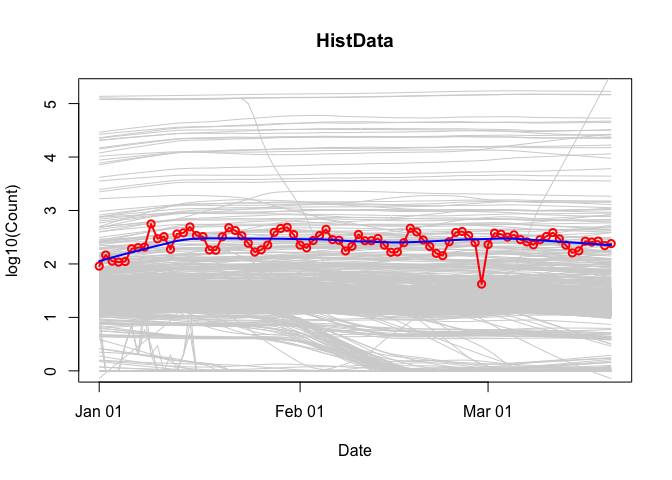
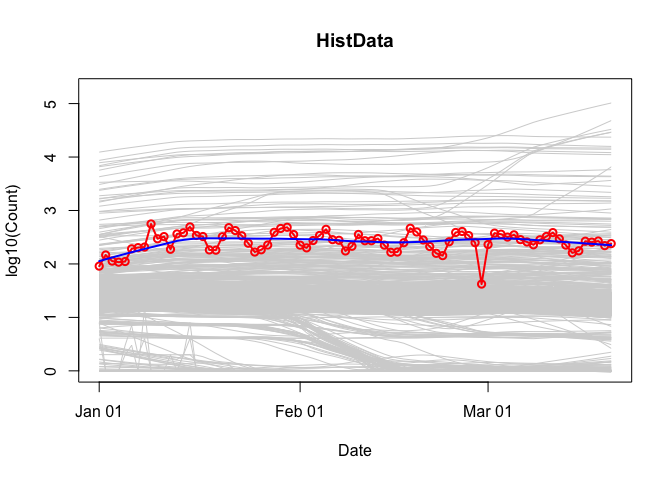
copyedit README

diff --git a/README.md b/README.md
@@ -8,25 +8,23 @@
 package that helps put package download counts into context. It does so
 via two functions, `cranDownloads()` and `packageRank()`.
 `cranDownloads()` extends
-[`cranlogs::cran_downloads()`](http://r-hub.github.io/cranlogs/) package
-by adding a `plot()` method and a more user-friendly interface to the
-task of counting package downloads. `packageRank()` uses rank
-percentiles, a nonparametric statistic that tells you the percentage of
-packages with fewer downloads, to help you see how your package is doing
-compared to all other packages on [CRAN](https://CRAN.R-project.org/).
+[`cranlogs::cran_downloads()`](http://r-hub.github.io/cranlogs/) by
+adding a `plot()` method and a more user-friendly interface.
+`packageRank()` uses rank percentiles, a nonparametric statistic that
+tells you the percentage of packages with fewer downloads, to help you
+see how your package is doing compared to all other
+[CRAN](https://CRAN.R-project.org/) packages.
 
-NOTE:
-[‘packageRank’](https://CRAN.R-project.org/package=packageRank)relies
-on the [‘cranlogs’](https://CRAN.R-project.org/package=cranlogs) package
-and requires an active internet connection.
-[‘cranlogs’](https://CRAN.R-project.org/package=cranlogs) uses the
-[RStudio logs](http://cran-logs.rstudio.com/) to compute package
-downloads. These logs record traffic to what was previously RStudio’s
-CRAN mirror (cran.rstudio.com) and is currently the “0-Cloud” mirror
-(cloud.r-project.org), which is “sponsored by RStudio”. Note that the
-logs for the previous day are generally posted the next day at 18:00
-(GMT+1) or 17:00 UTC (GMT+2) (daylight saving time); results for
-functions that rely on ‘cranlogs’ are available soon after.
+NOTE: [‘packageRank’](https://CRAN.R-project.org/package=packageRank)
+requires an active internet connection, and relies on the
+[‘cranlogs’](https://CRAN.R-project.org/package=cranlogs) package
+and on [RStudio’s logs](http://cran-logs.rstudio.com/), which record
+traffic to what was previously called their [CRAN
+mirror](http://cran.rstudio.com) and which is called the [“0-Cloud”
+mirror](http://cloud.r-project.org) “sponsored by RStudio”. The logs for
+the previous day are generally posted the following day at 18:00 (GMT+1)
+or 17:00 UTC (GMT+2) (daylight saving time). Results for functions that
+rely on ‘cranlogs’ are generally available soon thereafter.
 
 ### I - getting started
 
@@ -36,8 +34,7 @@ To install ‘packageRank’ from CRAN:
 install.packages("packageRank")
 ```
 
-To install the development version from
-GitHub:
+To install the development version from GitHub:
 
 ``` r
 # You may need to first install 'remotes' via install.packages("remotes").
@@ -107,17 +104,17 @@ cranDownloads(packages = "VR")
 #### ii) two additional date formats
 
 With `cranlogs::cran_downloads()`, you specify a time frame using the
-`from` and `to` arguments. The downside of this is that dates must use
-the “yyyy-mm-dd” format. For convenience’s sake and to reduce typing,
-`cranDownloads()` also allows you to use “yyyy-mm” or “yyyy” (yyyy also
-works).
+`from` and `to` arguments. The downside of this is that you *must* use
+the “yyyy-mm-dd” date format. For convenience’s sake and to reduce
+typing, `cranDownloads()` also allows you to use “yyyy-mm” or “yyyy”
+(yyyy also works).
 
 ##### “yyyy-mm”
 
 Let’s say you want the download counts for
-[‘HistData’](https://CRAN.R-project.org/package=HistData) from
-February 2020. With `cranlogs::cran_downloads()`, you have to type out
-the whole date and remember that 2020 was a leap year:
+[‘HistData’](https://CRAN.R-project.org/package=HistData) for the
+month of February 2020. With `cranlogs::cran_downloads()`, you’d have to
+type out the whole date and remember that 2020 was a leap year:
 
 ``` r
 cranlogs::cran_downloads(packages = "HistData", from = "2020-02-01",
@@ -151,7 +148,7 @@ cranDownloads(packages = "rstan", from = "2020")
 
 #### iii) check dates
 
-`cranDownloads()` tries to check for valid dates:
+`cranDownloads()` checks for valid dates:
 
 ``` r
 cranDownloads(packages = "HistData", from = "2019-01-15",
@@ -164,7 +161,7 @@ cranDownloads(packages = "HistData", from = "2019-01-15",
 
 ### III - visualizing package downloads
 
-`cranDownloads()` makes visualization easy. Just use
+`cranDownloads()` makes visualizing package downloads easy. Just use
 `plot()`:
 
 ``` r
@@ -173,8 +170,8 @@ plot(cranDownloads(packages = "HistData", from = "2019", to = "2019"))
 
 <img src="man/figures/README-cranDownloads_viz1-1.png" style="display: block; margin: auto;" />
 
-If you pass a vector of package names for a single day, `plot()` returns
-a dotchart:
+If you pass a vector of package names for a single day, `plot()` will
+return a dotchart:
 
 ``` r
 plot(cranDownloads(packages = c("ggplot2", "data.table", "Rcpp"),
@@ -183,8 +180,8 @@ plot(cranDownloads(packages = c("ggplot2", "data.table", "Rcpp"),
 
 <img src="man/figures/README-cranDownloads_viz2a-1.png" style="display: block; margin: auto;" />
 
-If you pass a vector of package names, `plot()` will use `ggplot2`
-facets:
+If you pass a vector of package names for multiple days, `plot()`
+defaults to using `ggplot2` facets:
 
 ``` r
 plot(cranDownloads(packages = c("ggplot2", "data.table", "Rcpp"),
@@ -194,7 +191,7 @@ plot(cranDownloads(packages = c("ggplot2", "data.table", "Rcpp"),
 <img src="man/figures/README-cranDownloads_viz2-1.png" style="display: block; margin: auto;" />
 <br/>
 
-If you want to plot those data in a single frame, use `multi.plot =
+If you want to plot those data in a single frame, set `multi.plot =
 TRUE`:
 
 ``` r
@@ -204,15 +201,15 @@ plot(cranDownloads(packages = c("ggplot2", "data.table", "Rcpp"),
 
 ![](man/figures/README-cranDownloads_viz3-1.png)<!-- -->
 
-<br/> If you want separate plots, use `graphics = "base"` (you’ll be
-prompted for each plot):
+<br/> If you want separate plots, use `graphics = "base"` and you’ll be
+prompted for each plot:
 
 ``` r
 plot(cranDownloads(packages = c("ggplot2", "data.table", "Rcpp"),
   from = "2020", to = "2020-03-20"), graphics = "base")
 ```
 
-If you want separate, independently scaled plots, add `same.xy = FALSE`:
+If you want those plots independently, set `same.xy = FALSE`:
 
 ``` r
 plot(cranDownloads(packages = c("ggplot2", "data.table", "Rcpp"),
@@ -222,7 +219,7 @@ plot(cranDownloads(packages = c("ggplot2", "data.table", "Rcpp"),
 #### `packages = NULL`
 
 `cranlogs::cran_download(packages = NULL)` computes the total number of
-package downloads from CRAN.
+package downloads from CRAN. You can plot these data by using:
 
 ``` r
 plot(cranDownloads(from = 2019, to = 2019))
@@ -234,7 +231,7 @@ plot(cranDownloads(from = 2019, to = 2019))
 
 `cranlogs::cran_download(packages = "R")` computes the total number of
 downloads of the R application (note that you can only use “R” or a
-vector of packages names, not both\!).
+vector of packages names, not both\!). You can plot these data by using:
 
 ``` r
 plot(cranDownloads(packages = "R", from = 2019, to = 2019))
@@ -244,7 +241,7 @@ plot(cranDownloads(packages = "R", from = 2019, to = 2019))
 
 #### smoothers and confidence intervals
 
-To add a lowess smoother to your data, use `smooth = TRUE`:
+To add a lowess smoother to your plot, use `smooth = TRUE`:
 
 ``` r
 plot(cranDownloads(packages = "rstan", from = "2019", to = "2019"),
@@ -265,7 +262,7 @@ plot(cranDownloads(packages = c("HistData", "rnaturalearth", "Zelig"),
 
 #### package and R release dates
 
-To annotate a graph with package release dates:
+To annotate a graph with a package’s release dates:
 
 ``` r
 plot(cranDownloads(packages = "rstan", from = "2019", to = "2019"),
@@ -295,19 +292,19 @@ plot(cranDownloads(packages = "HistData", from = "2020", to = "2020-03-20"),
 
 ![](man/figures/README-unnamed-chunk-10-1.png)<!-- -->
 
-This longitudinal view plots the date (x-axis) against the logarithm of
-a package’s downloads (y-axis). In the background, the same variable are
-plotted (in gray) for a stratified random sample of packages: within
-each 5% interval of rank percentiles (e.g., 0 to 5, 5 to 10, 95 to 100,
-etc.), a random sample of 5% of packages is selected and tracked over
-time. This sample approximates the “typical” pattern of downloads for
-that time period.
+This longitudinal view of package downloads plots the date (x-axis)
+against the logarithm of a package’s downloads (y-axis). In the
+background, the same variable are plotted (in gray) using a stratified
+random sample of packages: within each 5% interval of rank percentiles
+(e.g., 0 to 5, 5 to 10, 95 to 100, etc.), a random sample of 5% of
+packages is selected and tracked. This graphically approximates the
+“typical” pattern of downloads on CRAN for the selected time period.
 
 ### IV - computing package download rank percentiles
 
-After looking the download count data for a while, the “compared to
-what?” question will quickly come to mind. For instance, consider the
-data for the first week of March 2020:
+Looking at nominal download count data leads one to the “compared to
+what?” question. For instance, consider the data for the first week of
+March 2020:
 
 ``` r
 plot(cranDownloads(packages = "cholera", from = "2020-03-01",
@@ -324,8 +321,7 @@ unusual?
 One way to answer these questions is to locate your package in the
 frequency distribution of download counts. Below are the distributions
 for Wednesday and Saturday with the location of
-[‘cholera’](https://CRAN.R-project.org/package=cholera)
-highlighted:
+[‘cholera’](https://CRAN.R-project.org/package=cholera) highlighted:
 
 <img src="man/figures/README-skew_wed-1.png" style="display: block; margin: auto;" />
 
@@ -340,9 +336,8 @@ line.
 
 To see what’s going on, I take the log of download counts (x-axis) and
 redraw the graph. In these plots, the location of a vertical segment
-along the x-axis represents a download count and the height of a
-vertical segment represents the frequency of a download
-count:
+along the x-axis represents a download count and its height represents a
+download count’s frequency:
 
 ``` r
 plot(packageDistribution(package = "cholera", date = "2020-03-04"))
@@ -363,7 +358,7 @@ all we can confidently say is that the download counts for both days
 were greater than the mode.
 
 To facilitate interpretation and comparison, I use the *rank percentile*
-of download counts in place of nominal download counts. This
+of a download count in place of the nominal download count. This
 nonparametric statistic tells you the percentage of packages with fewer
 downloads. In other words, it gives you the location of your package
 relative to the locations of all other packages. More importantly, by
@@ -383,8 +378,7 @@ packageRank(package = "cholera", date = "2020-03-04", size.filter = FALSE)
 On Wednesday, we can see that
 [‘cholera’](https://CRAN.R-project.org/package=cholera) had 38
 downloads, came in 5,556th place out of 18,038 unique packages
-downloaded, and earned a spot in the 68th
-percentile.
+downloaded, and earned a spot in the 68th percentile.
 
 ``` r
 packageRank(package = "cholera", date = "2020-03-07", size.filter = FALSE)
@@ -432,16 +426,15 @@ round(100 * pkgs.with.fewer.downloads / tot.pkgs, 1)
 > [1] 67.9
 ```
 
-For the example above, 38 downloads puts ‘HistData’ in 5,556th place
-among the 18,038 packages downloaded.
+#### nominal ranks
 
-This rank is “nominal” because multiple packages can have the same
-number of downloads. As a result, a package’s nominal rank (but not its
-rank percentile) can be affected by its name: packages with the same
-number of downloads are sorted in alphabetical order.
-
-Thus, ‘HistData’ benefits from the fact that it is 31st in the list of
-263 packages with 38 downloads:
+In the example above, 38 downloads puts ‘cholera’ in 5,556th place among
+the 18,038 packages downloaded. This rank is “nominal” because it’s
+possible that multiple packages can have the same number of downloads.
+As a result, a package’s nominal rank (but not its rank percentile) can
+be affected by its name: packages with the same number of downloads are
+sorted in alphabetical order. Thus, ‘cholera’ benefits from the fact
+that it is 31st in the list of 263 packages with 38 downloads:
 
 ``` r
 pkg.rank <- packageRank(packages = "cholera", date = "2020-03-04",
@@ -456,8 +449,7 @@ length(downloads[downloads == 38])
 
 ### V - visualizing package download rank percentiles
 
-To visualize `packageRank()`, use
-`plot()`.
+To visualize `packageRank()`, use `plot()`.
 
 ``` r
 plot(packageRank(packages = "cholera", date = "2020-03-04"))
@@ -478,19 +470,16 @@ of packages’ download counts (x-axis) against the logarithm of those
 counts (y-axis). It then highlights a package’s position in the
 distribution along with its rank percentile and download count (in red).
 In the background, the 75th, 50th and 25th percentiles are plotted as
-dotted vertical lines; the package with the most downloads, which in
-both cases is [‘magrittr’](https://CRAN.R-project.org/package=magrittr)
-(in blue, top left); and the total number of downloads, 5,561,681 and
-3,403,969 respectively (in blue, top right).
+dotted vertical lines. The package with the most downloads,
+[‘magrittr’](https://CRAN.R-project.org/package=magrittr) in both
+cases, is at top right (in blue).
 
 ### VI - filter “small” downloads
 
-`packageRank()` and `packageLog()` have an additional argument,
-‘size.filter’ that by removes downloads \< 1000 bytes. Depending on
-the day of the week and the number of versions a package has, this can
-provide a more accurate count of package downloads. For example, here is
-a raw download
-count:
+`packageDistribution()`, `packageRank()` and `packageLog()` have a
+‘size.filter’ argument that removes downloads smaller than 1000 bytes.
+This can provide a more accurate count of package downloads. For
+example, here is a raw download count:
 
 ``` r
 packageRank(packages = "HistData", date = "2019-10-30", size.filter = FALSE)
@@ -498,8 +487,7 @@ packageRank(packages = "HistData", date = "2019-10-30", size.filter = FALSE)
 > 1 2019-10-30 HistData       403 794 of 17,396       95.4
 ```
 
-Below is a filtered
-count.
+Below is a filtered count.
 
 ``` r
 packageRank(packages = "HistData", date = "2019-10-30", size.filter = TRUE)
@@ -510,15 +498,18 @@ packageRank(packages = "HistData", date = "2019-10-30", size.filter = TRUE)
 Besides a difference of 21 downloads, notice that the number of unique
 packages downloaded falls from 17,396 to 15,330.
 
-By default, `size.filter = TRUE` for `packageRank()` and `size.filter =
-FALSE` for `packageLog()`.
+By default, `size.filter = TRUE` for `packageRank()` while `size.filter
+= FALSE` for `packageDistribution()` and `packageLog()`. For details
+about “small” downloads see the “Inflationary Bias of Download Counts”
+section of this [blog
+post](https://blog.r-hub.io/2020/05/11/packagerank-intro/#inflationary-bias-of-download-counts)
 
 ### VII - memoization
 
 To avoid the bottleneck of downloading multiple log files,
-`packageRank()` is currently limited to individual days or observations.
-However, to reduce the need to re-download logs, ‘packageRank’ makes use
-of memoization via the ‘memoise’ package.
+`packageRank()` is currently limited to individual days. However, to
+reduce the need to re-download logs, ‘packageRank’ makes use of
+memoization via the ‘memoise’ package.
 
 Here’s relevant code:
 
@@ -535,7 +526,7 @@ if (RCurl::url.exists(url)) {
 ```
 
 If you use `fetchLog()`, the log file, which can be upwards of 50 MB,
-will be downloaded every time you call the function. If you use
-`mfetchLog()`, logs are intelligently cached; those that have already
-been downloaded, in your current R session, will not be downloaded
-again.
+will be downloaded each time you call the function. But if you use
+`mfetchLog()`, the logs are intelligently cached; those that have
+already been downloaded, in your current R session, will not be
+downloaded again.
